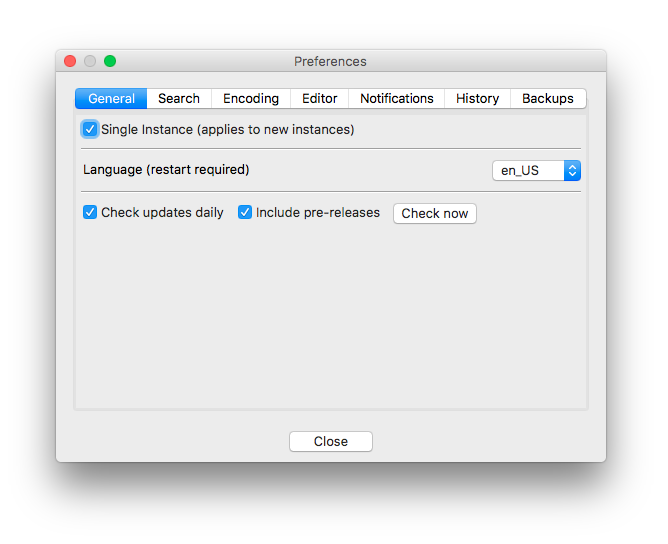
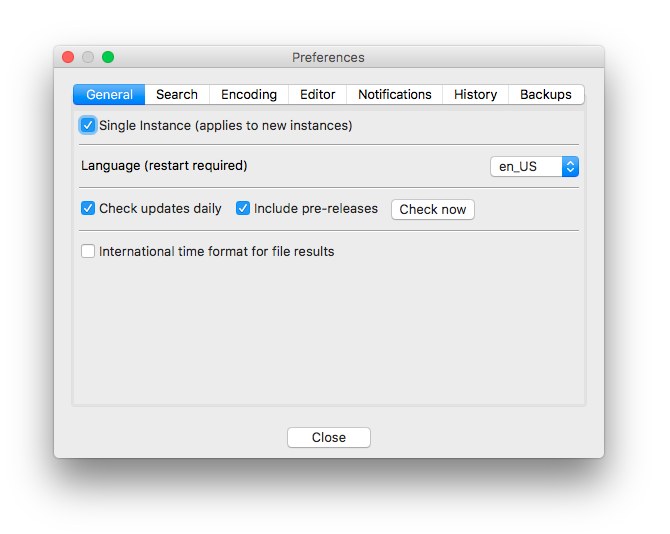
Update docs

Changed region(s): [[0.0599, 0.0899, 0.9281, 0.839], [0.0599, 0.779, 0.8982, 0.8689], [0.1198, 0.4494, 0.509, 0.4794]]

diff --git a/docs/src/markdown/usage.md b/docs/src/markdown/usage.md
@@ -68,6 +68,9 @@ Once a search or replace is initiated, the results will begin to appear in the F
 
 ![Content Tab](/images/content_tab.png)
 
+!!! tip
+    You can hide/show columns by right clicking the list header to get a special context menu. You can then deselect or select the the column(s) you wish to hide/show respectively.
+
 ## Options
 
 Rummage supports the default regular expression library ([Re][re]) that comes with Python and the 3rd party [Regex][regex] library, and though the basic syntax and features are similar between the two, Regex provides many additional features, some of which causes the syntax to deviate greatly from Re. If you are using Re, you will not see all the options shown below. Please check out documentation for whichever engine you have chosen to learn more about its specific feature set. This documentation will only briefly cover the features that can be enabled in each engine.
@@ -458,6 +461,10 @@ Updates
         There is a small issue on macOS with Python 3.6+: Python 3.6 changed how it gets the default certificates required to properly check URLs. The details are actually documented here: https://bugs.python.org/issue28150#msg276516.
 
         To get access again to the default certificates is actually quite easy. Assuming that Python 3.6+ was installed using the macOS installer from Python.org, you just need to navigate to `/Applications/Python 3.6/Install Certificates.command` and double click the command.  The script will use `pip` to install `certifi` and creates a symlink in the OpenSSL directory to `certifi`'s installed bundle location. If you are using something like macports, then you'll probably have to research to find out how to do the same thing.
+
+International Time
+: 
+    Rummage displays file creation and modified time in the form `Jul 01, 2018, 03:00:00 AM`, but you can enable this option to display the times in international format: `2018-07-01 03:00:00`.
 
 ### Search
 
